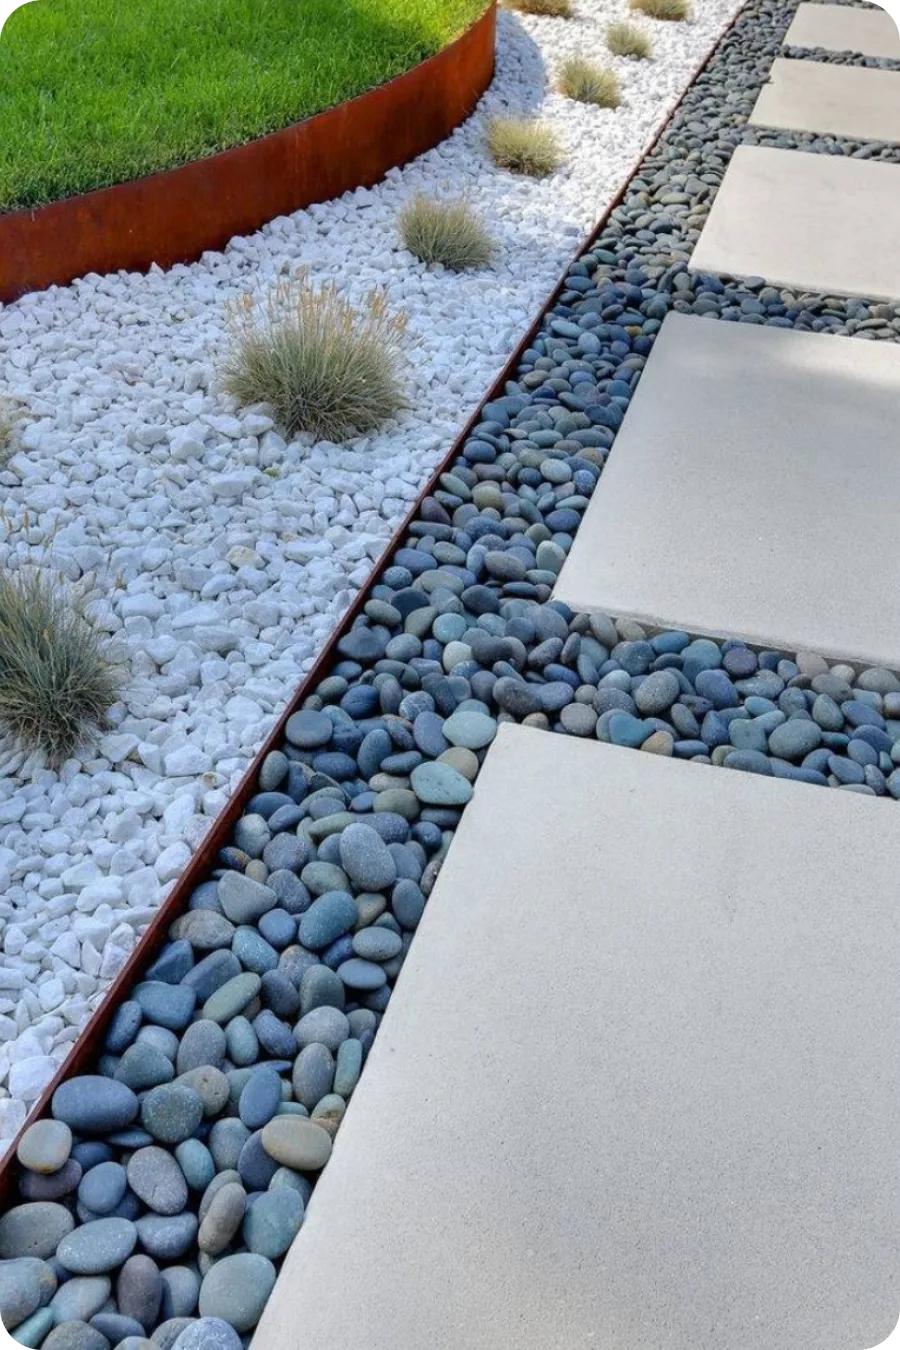
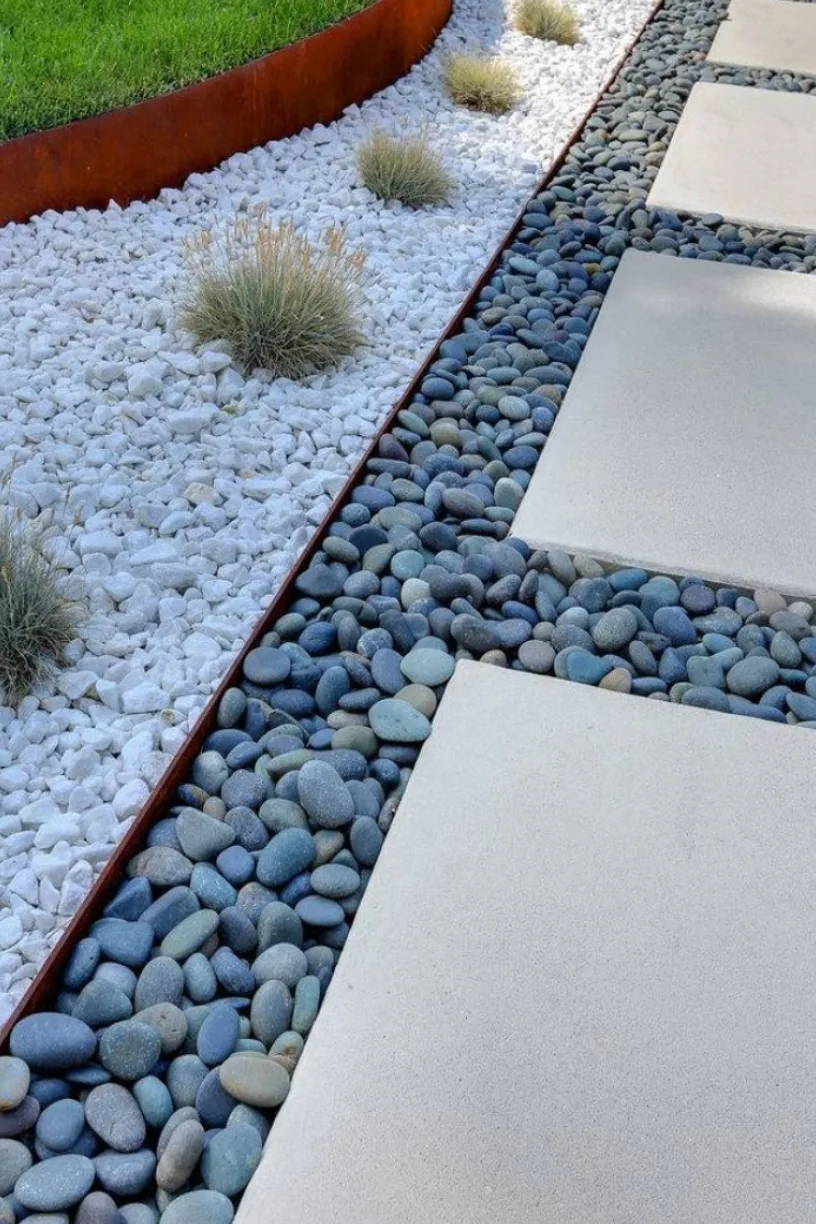
style: narrower photos, square corners, half the height
Source PNGs ship with a 42px rounded corner baked into the alpha, so the
CSS radius alone could never square them off — re-cropped to 816x1224
(42px off each side, centred to an exact 2:3) with alpha flattened.

Photos now cap at ~288x432 on desktop (half the previous height, same
ratio) and sit flush against the section's outer margin. Mobile keeps
them full width.

diff --git a/index.html b/index.html
@@ -156,7 +156,7 @@ section[id]{scroll-margin-top:88px}
 .sec-head--center p{margin-inline:auto}
 #linhas .sec-head--center h2{max-width:24ch}
 /* crossfade estático de fotos dentro de cada linha */
-.xfade{position:relative;aspect-ratio:2/3;overflow:hidden}
+.xfade{position:relative;width:100%;aspect-ratio:2/3;overflow:hidden}
 .xfade img{position:absolute;inset:0;width:100%;height:100%;object-fit:cover;opacity:0;
   animation:xfade 13.5s var(--ease) infinite}
 .xfade img:nth-child(1){animation-delay:0s}
@@ -169,7 +169,7 @@ section[id]{scroll-margin-top:88px}
 }
 .linha{display:grid;grid-template-columns:1fr;gap:clamp(1.5rem,4vw,4rem);align-items:center;padding-block:clamp(2rem,5vw,4rem)}
 .linha+.linha{border-top:1px solid var(--linha)}
-.linha__media{position:relative;overflow:hidden;border-radius:2px}
+.linha__media{position:relative;overflow:hidden;border-radius:0}
 .linha__media img{width:100%;aspect-ratio:2/3;object-fit:cover;transition:transform 1.4s var(--ease)}
 .linha:hover .linha__media img{transform:scale(1.05)}
 .linha__num{font-family:var(--sans);font-weight:300;font-size:.8rem;letter-spacing:.2em;color:var(--verde-600)}
@@ -184,7 +184,9 @@ section[id]{scroll-margin-top:88px}
 .linha__meta b{font-weight:400;color:var(--tinta)}
 @media(min-width:860px){
   .linha{grid-template-columns:1fr 1fr;gap:clamp(3rem,5vw,5.5rem)}
-  .linha:nth-child(even) .linha__media{order:2}
+  /* foto estreita, encostada na margem externa da seção */
+  .linha__media{width:100%;max-width:clamp(230px,20vw,300px);justify-self:start}
+  .linha:nth-child(even) .linha__media{order:2;justify-self:end}
 }
 
 /* ============ AMOSTRAS ============ */
